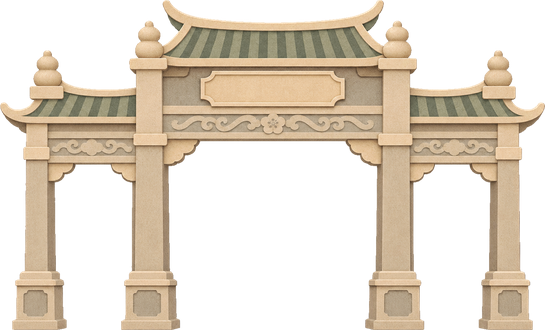
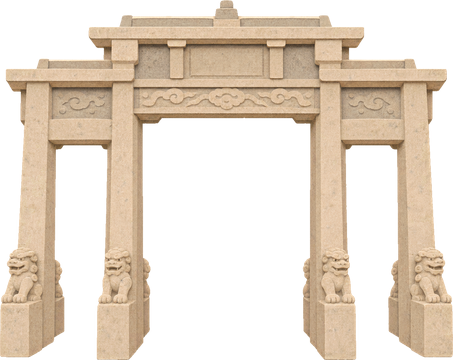
Tainan Gazetteer: stone arch and literature museum drawn from real references
Codex ran request 13-landmarks-real with web search and the user's photo. The
arch is now the all-stone four-pillar arch with lions; the literature museum
takes its place on the street, which grows by 130 to fit it. Both are
placeholders until the user approves: the shapes follow the real buildings but
the rendering is more embossed than the approved flat paper style. The new
Hayashi stays in art-inbox; the approved one remains in use.

Claude-Session: https://claude.ai/code/session_01SWmRBCoZi5zDewCs1B5KjF

diff --git a/yokai-night-market/src/data/manifest.ts b/yokai-night-market/src/data/manifest.ts
@@ -47,8 +47,8 @@ export const ASSETS: Asset[] = [
   a('shrine', 'building', 110, 'approved', { source: 'atlas', cell: 4, tags: ['landmark'], name: '小祠' }),
   a('torii', 'building', 108, 'approved', { source: 'atlas', cell: 5, tags: ['landmark'], name: '鳥居' }),
   // requested
-  a('literature', 'building', 150, 'pending', { tags: ['landmark'], name: '臺灣文學館（舊臺南州廳）' }),
-  a('panggong', 'building', 110, 'placeholder', { tags: ['landmark'], name: '泮宮石坊（Codex 初稿，待核可）' }),
+  a('literature', 'building', 104, 'placeholder', { tags: ['landmark'], name: '臺灣文學館（舊臺南州廳；Codex 實景稿，待核可）' }),
+  a('panggong', 'building', 110, 'placeholder', { tags: ['landmark'], name: '泮宮石坊（Codex 實景稿，待核可）' }),
   a('butokuden', 'building', 130, 'pending', { tags: ['landmark'], name: '武德殿' }),
   a('weather', 'building', 130, 'pending', { tags: ['landmark'], name: '臺南測候所' }),
   a('police', 'building', 120, 'pending', { tags: ['landmark'], name: '舊臺南警察署' }),

diff --git a/yokai-night-market/docs/art/BACKLOG.md b/yokai-night-market/docs/art/BACKLOG.md
@@ -4,7 +4,7 @@
 
 | 需求單 | 內容 | 狀態 | 備註 |
 |---|---|---|---|
-| `01-panggong` | 泮宮石坊 | 待核可 | 2026-11-22 Codex 交件；原圖帶光暈（切圖時去除）、邊緣略有浮雕感。已以 placeholder 放在大街花巷入口，等使用者看 |
+| `01-panggong` | 泮宮石坊 | 退回 | 2026-11-22 Codex 交件；原圖帶光暈（切圖時去除）、邊緣略有浮雕感。已以 placeholder 放在大街花巷入口，等使用者看 |
 | `02-circle-buildings` | 文學館、武德殿、測候所、警察署、合同廳舍、勸業銀行 | 待畫 | 大街圓環段 |
 | `03-monsters` | 黑貓、小青蛇、風獅爺、贔屭 | 待畫 | 遊戲資料已備好，出圖即上場 |
 | `04-trees` | 榕樹、鳳凰木 | 待畫 | 大街與戰場的前景、背景樹；楓樹暫代鳳凰木 |
@@ -15,6 +15,7 @@
 | `09-splash` | 進版主視覺 | 待畫 | 現用大街畫面暫代 |
 | `10-flower-lane` | 花巷六種攤販 | 待畫 | 現用擔仔麵攤、店鋪暫代 |
 | `11-heroes` | 阿燈、雲平 | 待畫 | 現為最早的程式繪圖 |
+| `13-landmarks-real` | 照實景畫：泮宮石坊（重畫）、臺灣文學館、林百貨 | 待核可 | 2026-11-22 Codex 交件，附參考頁面。外形照實景；畫法偏 3D 浮雕、邊緣有彩色殘邊（切圖時去除），和已核可的平面紙雕不一致。石坊與文學館以 placeholder 上大街；林百貨維持已核可舊圖 |
 | `12-fauna` | 黑冠麻鷺、珠頸斑鳩 | 待畫 | 大街已留位置（street.json 的 fauna 圖層，現為佔位卡）；bird 骨架已備，單張圖即可先上場 |
 
 ## 已上線
